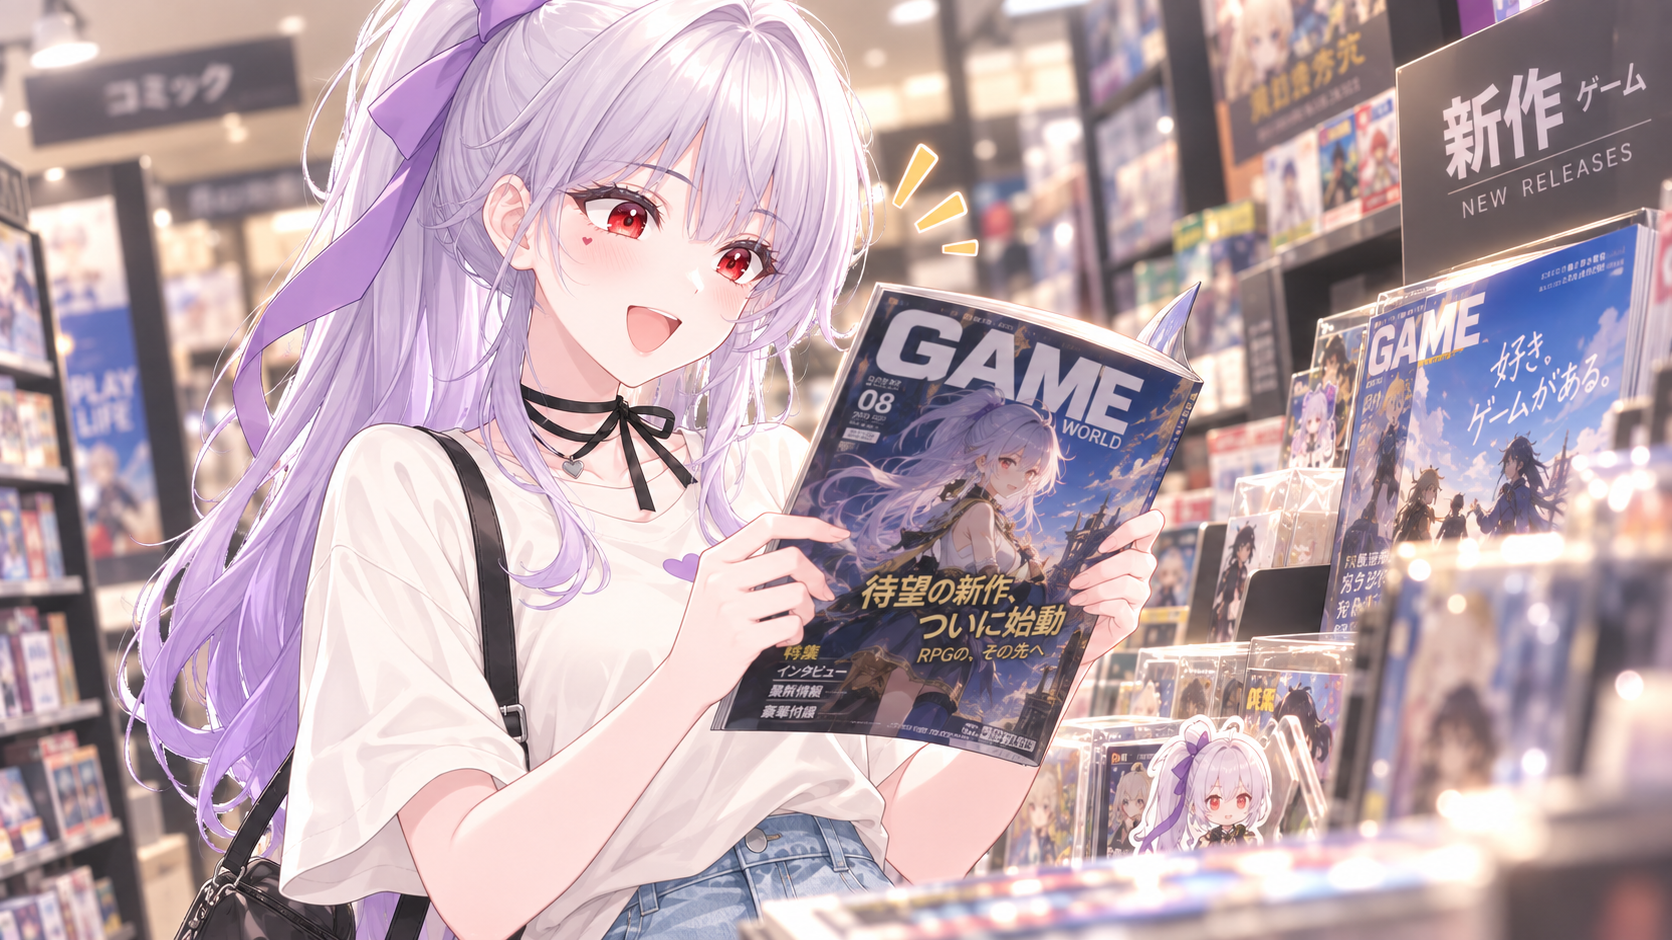
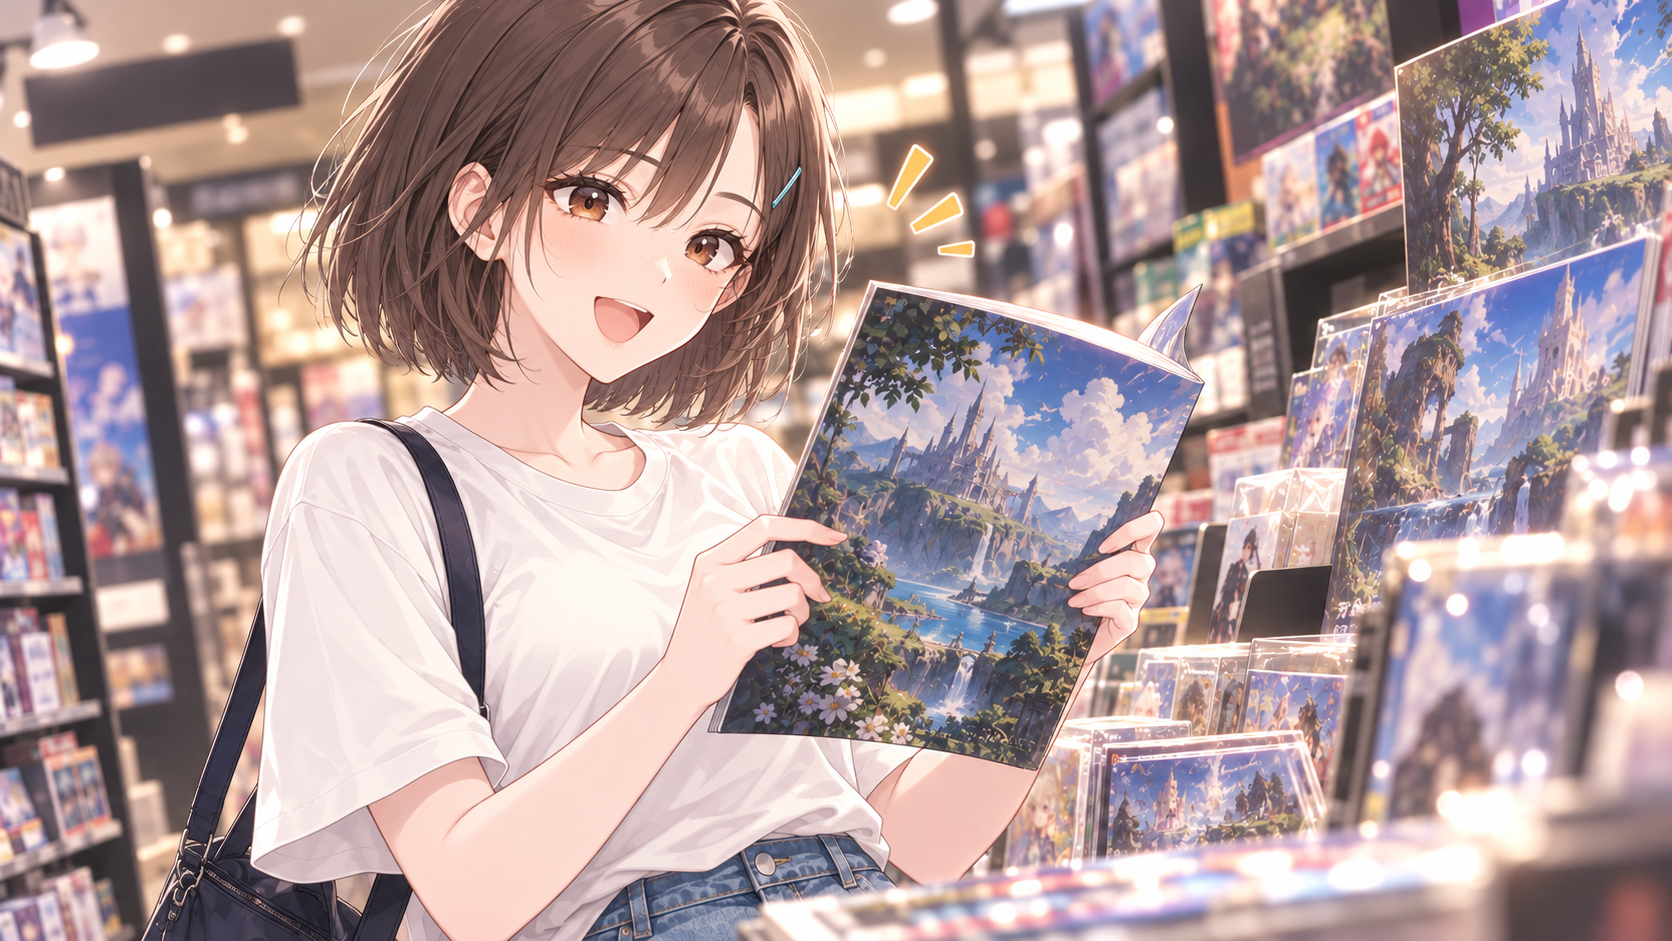
CH12 기본 의상 CG 원본 구도 반영

diff --git a/docs/illustration-replacement-prompts.md b/docs/illustration-replacement-prompts.md
@@ -243,7 +243,7 @@ CG는 공통 CG 블록과 파일별 장면 프롬프트를 이어 붙인다. 무
 | [cg-10.png](../assets/cg/cg-10.png) · CH09 새로운 반 | 원본의 구도와 자세를 유지한다. 허리 위 근접 구도로 온이유를 화면 중앙 왼쪽에 두고, 몸과 어깨는 오른쪽 길을 향해 비스듬히 돌린다. 걸음을 이어가며 얼굴만 왼쪽 전경의 동행자를 돌아보고, 가방끈이 어깨에 걸린 모습과 조심스러운 미소를 살린다. 동행자는 얼굴이 보이지 않는 흐린 어깨 실루엣으로 화면 맨 왼쪽에 둔다. 오른쪽 절반에는 노을이 낮게 비치는 길과 난간·도시 불빛을 두고, 단풍 가지가 화면 위쪽을 감싼다. 새 캐릭터 기준 외형과 교복을 적용하고 글자·로고는 넣지 않는다. |
 | [cg-11.png](../assets/cg/cg-11.png) · CH10 동아리 활동 | 원본의 구도와 자세를 유지한다. 화면 중앙 왼쪽 나무 의자에 앉은 온이유가 몸을 오른쪽으로 돌리고, 고개와 시선은 캔버스에 둔다. 오른팔을 화면 중앙을 가로질러 뻗어 오른쪽 전경의 큰 캔버스에 붓을 대며, 다른 손의 팔레트는 무릎 가까운 아래쪽 중앙 오른편에 둔다. 왼쪽 아래 전경에는 흐릿한 물감병과 붓을 두고, 뒤에는 이젤과 작업대·밤 창문을 배치하며 위쪽 따뜻한 펜던트 조명을 유지한다. 새 캐릭터 외형과 교복 위의 물감 묻은 앞치마를 적용하고, 칠판·그림·소품에는 읽을 수 있는 글자·로고를 넣지 않는다. |
 | [cg-12.png](../assets/cg/cg-12.png) · CH11 방학 계획 | 원본의 구도와 자세를 유지한다. 책상 뒤 중앙에 앉은 온이유가 오른쪽 팔꿈치를 책상에 대고 손으로 뺨을 받치며, 왼손으로 화면 왼쪽 어깨 옆에 펼친 접이식 부채를 든다. 책상은 화면 아래 전체를 가로지르고 중앙 아래에 스케치북, 오른쪽 아래에 책 더미와 잘린 전경 필통을 둔다. 맨 오른쪽 가장자리에는 크게 잘린 탁상용 선풍기와 물병을 배치한다. 왼쪽 배경에는 칠판, 뒤에는 책상과 의자, 오른쪽 위에는 열린 창과 여름 하늘을 둔다. 새 캐릭터 외형과 교복을 적용하고 칠판·종이·물병에 읽을 수 있는 글자·로고를 넣지 않는다. |
-| [cg-13-1.png](../assets/cg/cg-13-1.png) · CH12 우연한 만남, 기본 의상 | 동네 서점의 게임 잡지·캐릭터 굿즈 매대 앞, 흰 티셔츠와 데님 하의를 입은 온이유가 진열물을 살펴보다 플레이어를 발견하고 반갑게 돌아본다. 잡지 표지와 진열물은 읽을 수 없는 가상 그래픽으로 처리한다. |
+| [cg-13-1.png](../assets/cg/cg-13-1.png) · CH12 우연한 만남, 기본 의상 | 원본의 구도와 자세를 유지한다. 허리 위로 보이는 온이유를 왼쪽 절반에 두고, 몸을 오른쪽으로 살짝 돌린 채 밝은 표정으로 화면을 바라본다. 가방끈을 어깨에 걸고 양손으로 중앙 오른쪽의 큰 잡지를 비스듬히 들어 보여주며, 한쪽 검지는 표지를 가리킨다. 머리 옆의 작은 강조선을 살린다. 왼쪽 배경은 흐린 서가, 오른쪽은 게임 잡지와 진열 케이스가 빽빽한 매대로 구성한다. 새 캐릭터 외형과 흰 티셔츠·데님 하의를 적용하고, 표지와 상품에는 글자·로고·인물 초상 없이 가상의 풍경 그래픽만 넣는다. |
 | [cg-13-2.png](../assets/cg/cg-13-2.png) · CH12 우연한 만남, 꾸민 의상 | 같은 서점의 게임 잡지 매대에서 검정 데님 재킷과 검정 바지 차림의 온이유가 잡지를 들고 반갑게 인사한다. 기본 의상 변형과 같은 서사 순간이지만 화면 배치와 손동작은 새로 구성한다. |
 | [cg-14-1.png](../assets/cg/cg-14-1.png) · CH13 첫 데이트, 기본 의상 | 첫 데이트의 해질녘 거리, 편안한 캐주얼 옷차림의 온이유가 따뜻한 가로등 아래 잠깐 걸음을 멈추고 상대를 바라본다. 설렘과 긴장이 섞인 작은 미소, 배경에는 부드러운 보케 조명. |
 | [cg-14-2.png](../assets/cg/cg-14-2.png) · CH13 첫 데이트, 꾸민 의상 | 크림색 니트와 단정한 스커트 차림의 온이유가 봄 저녁 산책길에서 수줍게 웃는다. 같은 첫 데이트 감정선을 유지하되 포즈와 카메라 구도는 독립적으로 만든다. |
@@ -277,4 +277,4 @@ CG는 공통 CG 블록과 파일별 장면 프롬프트를 이어 붙인다. 무
 - 이미지 모델이 만든 문자·로고·워터마크는 제거하고, 필요한 문구는 별도로 편집한다.
 - 인물 외형 참조에는 승인된 공통 캐릭터 기준 이미지만 사용한다. 사용자가 특정 의상 참고 이미지를 제공한 경우에는 지정된 의상 형태만 참고하고 얼굴·머리·포즈·배경은 복사하지 않는다. 결과가 새 공통 캐릭터 기준과 다르면 해당 파일을 다시 생성한다.
 
-이 문서는 교체 대상의 프롬프트와 파일 대응표다. S·W·G·A·C1·P1·C13·P13·C16·P16·C24·P24·GR 스탠딩 세트와 타이틀 표지, cg-01~cg-12의 생성 및 파일 교체를 완료했으며, 나머지 CG는 한 장씩 진행한다.
+이 문서는 교체 대상의 프롬프트와 파일 대응표다. S·W·G·A·C1·P1·C13·P13·C16·P16·C24·P24·GR 스탠딩 세트와 타이틀 표지, cg-01~cg-12 및 cg-13-1의 생성·교체를 완료했으며, 나머지 CG는 한 장씩 진행한다.
